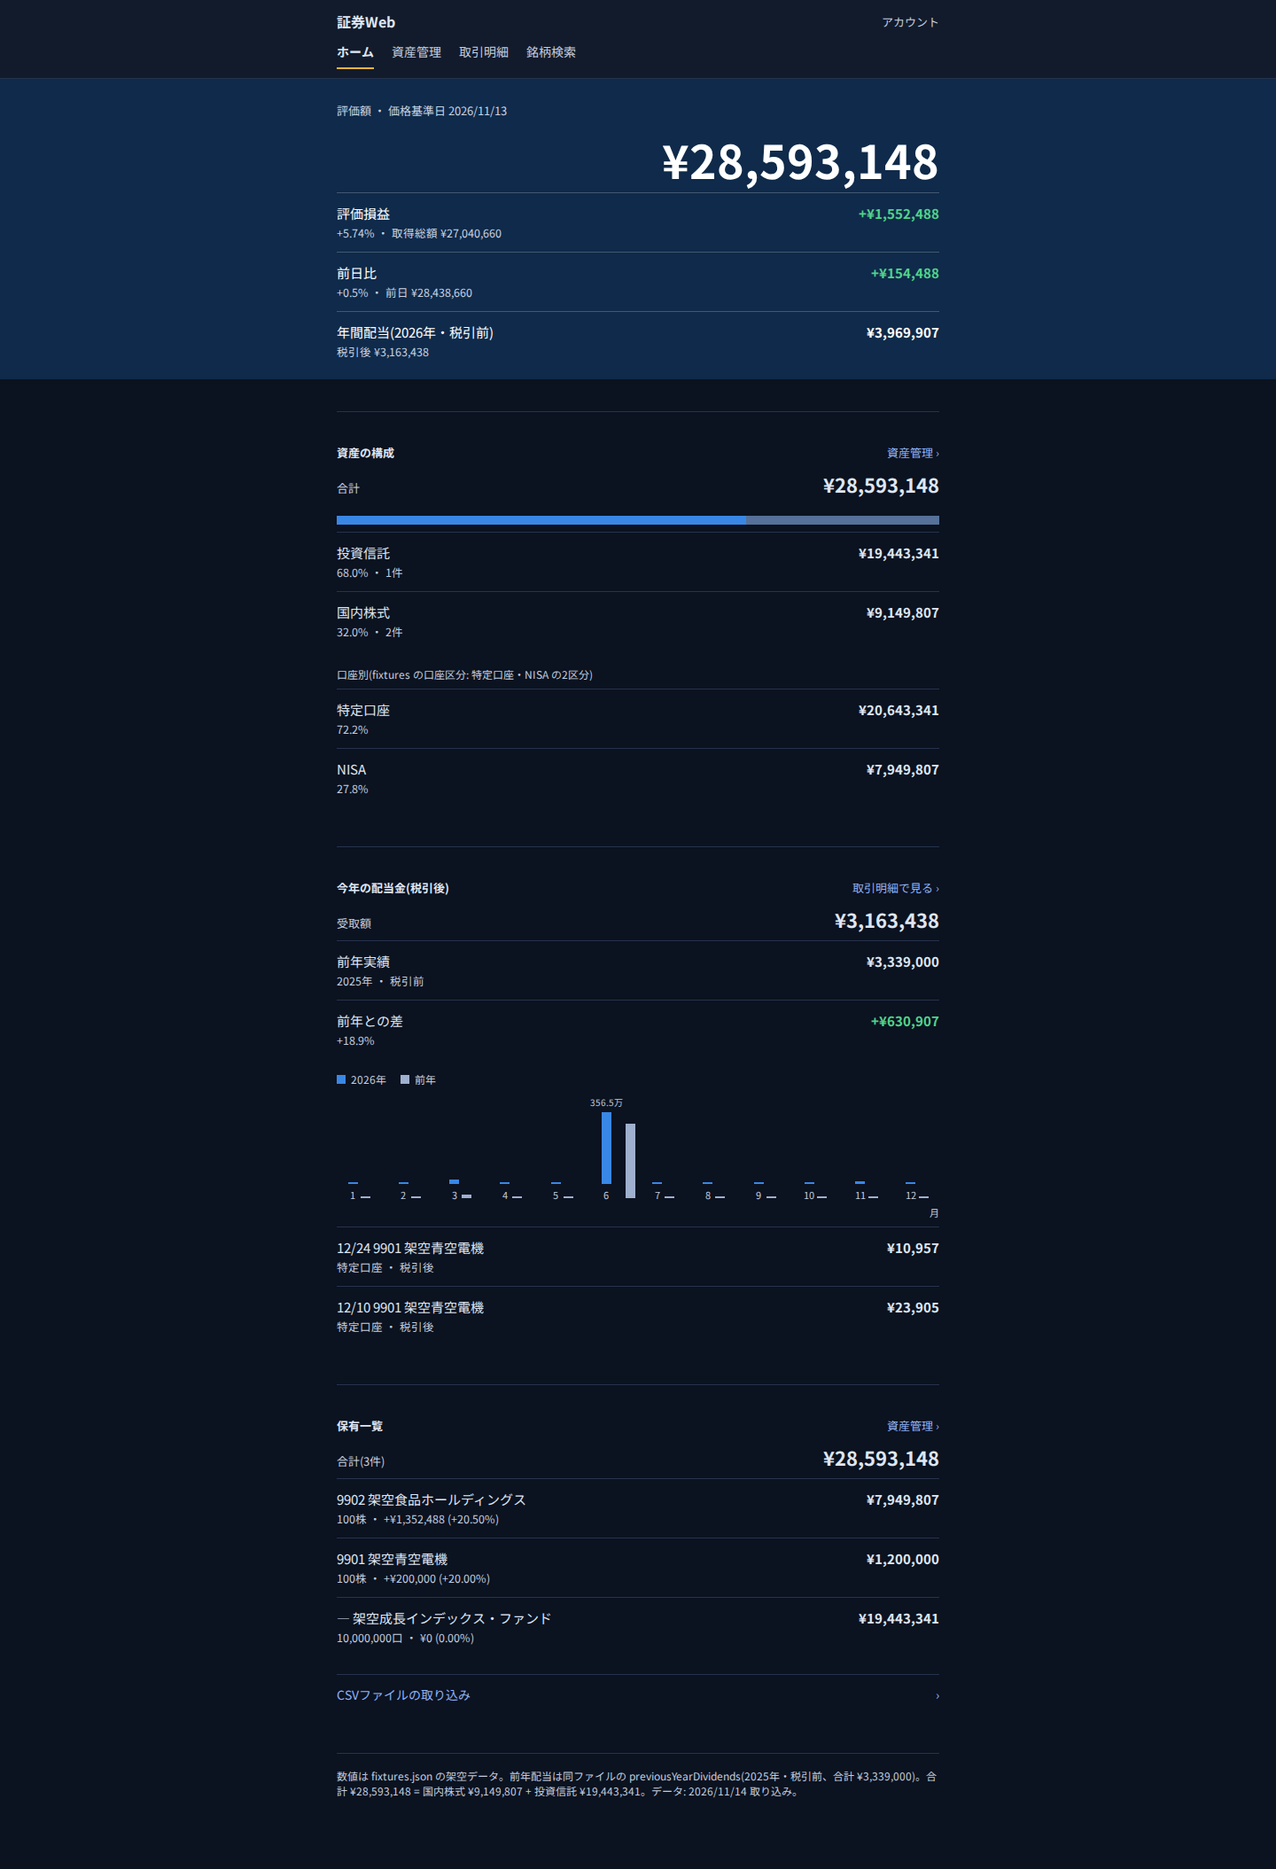
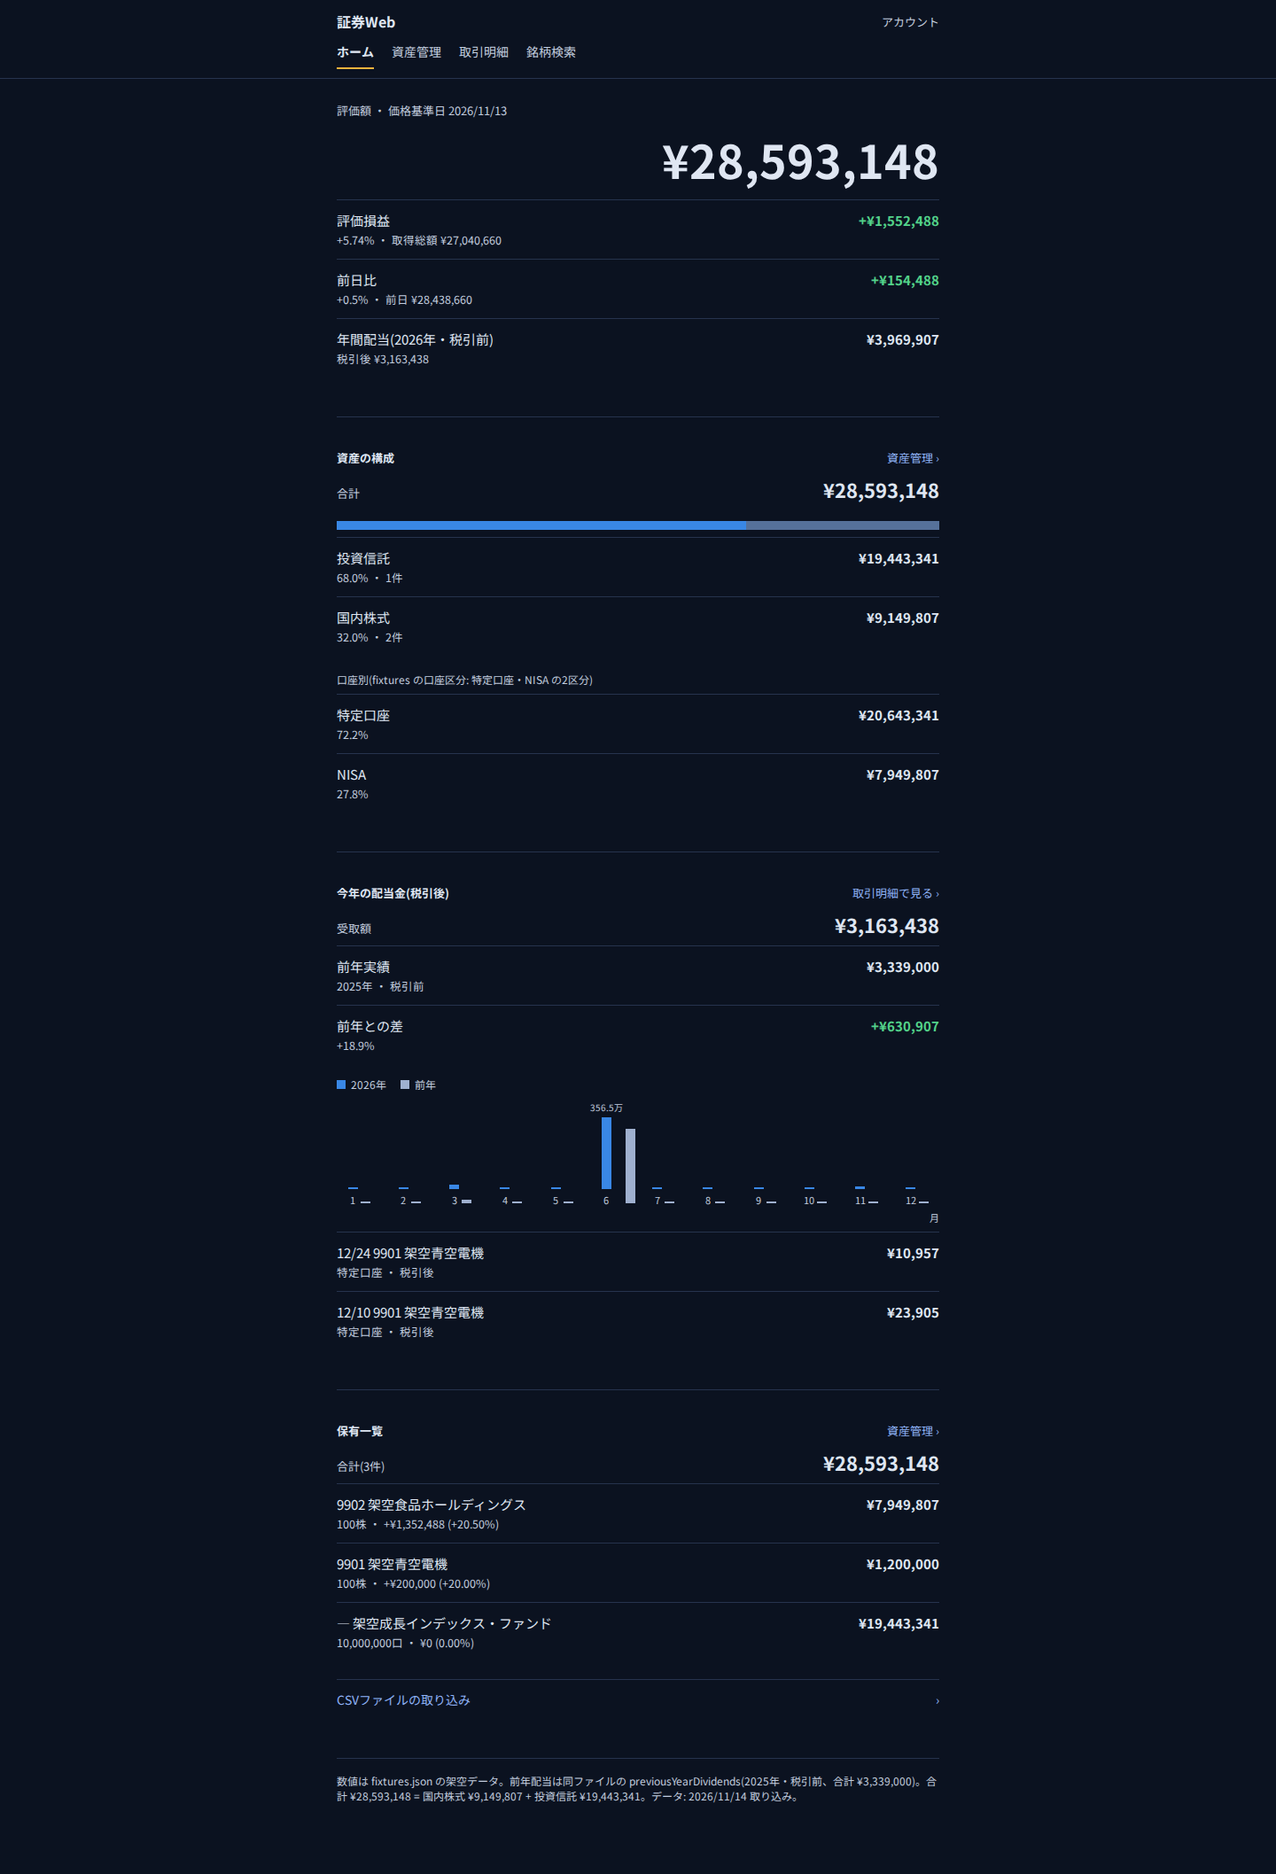
design: 紺帯をやめ案5を最新1案に整理
Refs #1890

diff --git a/docs/design/work/phase8-visual/idea5-current-color.html b/docs/design/work/phase8-visual/idea5-current-color.html
@@ -1,8 +1,8 @@
 <!doctype html>
 <!-- 現行ホーム(before/current-home-*.png)からの変更3点:
-  1. 紺帯・青アクセント・利益緑など現行の色のまま、縦1列(最大720px)で読む形にした
+  1. 紺帯をやめ、地の上に評価額と評価損益の大きな数字を置いた(紺は見出しと主役数字の文字色に使う)
   2. 月別配当は現行と同じ内容(受取額・前年比較・2本並び棒)にし、明細は直近の入金2行だけにした
-  3. 操作(上ナビ・CSV管理・アカウント・下ナビ)は残し、明細はすべて「左=名前・右=金額」の同じ行に統一した -->
+  3. 操作は残し、CSVは保有一覧末尾の1行に一本化。明細はすべて「左=名前・右=金額」の同じ行に統一した -->
 <html lang="ja" data-theme="light">
 <head>
 <meta charset="utf-8">
@@ -14,35 +14,39 @@
 <style>
 /* 色は frontend/style/input.css の現行トークンのみ。新色なし */
 :root{
-  --page:#f3f5f8; --surface:#ffffff; --ink:#111827; --mut:#5f6b7a; --line:#e5e7eb;
-  --band:#0f2a4a; --band-ink:#ffffff; --band-mut:#c9d3e1; --gold:#f2b33d;
+  --page:#f3f5f8; --ink:#111827; --mut:#5f6b7a; --line:#e5e7eb;
+  --gold:#f2b33d;
   --accent:#1d4ed8; --up:#0b7a4b; --down:#c0362c;
   --bar-cur:#0f2a4a; --bar-prev:#64748b;
   --comp-a:#1d4ed8; --comp-b:#0f2a4a;
+  --headline:#0f2a4a;
   --btn-border:#d1d5db;
 }
 html[data-theme="dark"]{
-  --page:#0b1220; --surface:#121b2c; --ink:#dfe6f2; --mut:#c2cddf; --line:#26334d;
-  --band:#0f2a4a; --band-ink:#ffffff; --band-mut:#c9d3e1; --gold:#f2b33d;
+  --page:#0b1220; --ink:#dfe6f2; --mut:#c2cddf; --line:#26334d;
+  --gold:#f2b33d;
   --accent:#8fb3f7; --up:#53d28a; --down:#f0857a;
   --bar-cur:#3987e5; --bar-prev:#9fb0cf;
   --comp-a:#3987e5; --comp-b:#56719a;
+  --headline:#dfe6f2;
   --btn-border:#3d4d70;
 }
 @media (prefers-color-scheme: dark){
-  html:not([data-theme]){ --page:#0b1220; --surface:#121b2c; --ink:#dfe6f2; --mut:#c2cddf; --line:#26334d;
-    --band:#0f2a4a; --band-ink:#ffffff; --band-mut:#c9d3e1; --gold:#f2b33d;
+  html:not([data-theme]){ --page:#0b1220; --ink:#dfe6f2; --mut:#c2cddf; --line:#26334d;
+    --gold:#f2b33d;
     --accent:#8fb3f7; --up:#53d28a; --down:#f0857a;
     --bar-cur:#3987e5; --bar-prev:#9fb0cf;
     --comp-a:#3987e5; --comp-b:#56719a;
+  --headline:#dfe6f2;
     --btn-border:#3d4d70; }
 }
+/* 面の塗りはグラフの棒と割合の横棒だけ。ヘッダー・ナビは地のまま線で区切る */
 *{box-sizing:border-box}
 body{margin:0; background:var(--page); color:var(--ink);
   font-family:"Noto Sans JP","Hiragino Kaku Gothic ProN",Meiryo,sans-serif; font-weight:400}
 .wrap{max-width:720px; margin:0 auto; padding:0 20px 80px}
 /* 現行の上部: ロゴ・ナビ・CSV管理・アカウント */
-.top{background:var(--surface); border-bottom:1px solid var(--line)}
+.top{background:transparent; border-bottom:1px solid var(--line)}
 .top .inner{max-width:720px; margin:0 auto; padding:0 20px}
 .top .row1{display:flex; align-items:center; justify-content:space-between; gap:12px; padding:12px 0}
 .top .brand{font-weight:700; white-space:nowrap}
@@ -51,21 +55,14 @@ body{margin:0; background:var(--page); color:var(--ink);
 .top nav{display:flex; gap:20px; font-size:14px; padding-bottom:10px}
 .top nav span{white-space:nowrap; color:var(--mut)}
 .top nav .here{color:var(--ink); font-weight:700; border-bottom:2px solid var(--gold); padding-bottom:8px}
-/* 現行の紺の集計帯(中身は1列の行) */
-.band{background:var(--band); color:var(--band-ink)}
-.band .inner{max-width:720px; margin:0 auto; padding:26px 20px 10px}
-.band .kicker{font-size:13px; color:var(--band-mut); margin:0 0 8px; white-space:nowrap}
-.band .total{font-size:clamp(36px,10vw,52px); font-weight:700; text-align:right; margin:0; white-space:nowrap;
-  font-feature-settings:"tnum" 1; font-variant-numeric:tabular-nums}
-.band .row{display:flex; justify-content:space-between; align-items:flex-start; gap:16px; padding:12px 0; border-top:1px solid rgba(255,255,255,.22)}
-.band .row .left{min-width:0; flex:1 1 auto}
-.band .row .name{font-size:15px; white-space:nowrap; overflow:hidden; text-overflow:ellipsis}
-.band .row .sub{display:block; font-size:12.5px; color:var(--band-mut); margin-top:2px; white-space:nowrap; overflow:hidden; text-overflow:ellipsis}
-.band .row .amt{flex:none; font-size:15px; font-weight:700; text-align:right; white-space:nowrap;
+/* 紺帯はやめ、地の上に大きな数字。紺は見出しと主役数字の文字色に使う */
+.hero{padding:26px 0 8px}
+.hero .kicker{font-size:13px; color:var(--mut); margin:0 0 8px; white-space:nowrap}
+.hero .total{font-size:clamp(36px,10vw,52px); font-weight:700; color:var(--headline); text-align:right; margin:0; white-space:nowrap;
   font-feature-settings:"tnum" 1; font-variant-numeric:tabular-nums}
 /* idea4 の型: 見出し→要約→明細 */
 section{padding:36px 0 8px; border-top:1px solid var(--line); margin-top:36px}
-section h2{font-size:13px; font-weight:700; margin:0; white-space:nowrap}
+section h2{font-size:13px; font-weight:700; margin:0; white-space:nowrap; color:var(--headline)}
 .hrow{display:flex; justify-content:space-between; align-items:baseline; gap:16px}
 .hrow .more{font-size:13px; color:var(--accent); white-space:nowrap}
 .cap{font-size:12px; color:var(--mut); margin:18px 0 0}
@@ -102,7 +99,7 @@ section h2{font-size:13px; font-weight:700; margin:0; white-space:nowrap}
 .bottomnav{display:none}
 @media(max-width:720px){
   .top nav{display:none}
-  .bottomnav{display:flex; background:var(--surface); border-top:1px solid var(--line)}
+  .bottomnav{display:flex; background:transparent; border-top:1px solid var(--line)}
   .bottomnav span{flex:1; display:flex; flex-direction:column; align-items:center; gap:2px; text-align:center; font-size:11px; padding:10px 0 16px; color:var(--mut); white-space:nowrap}
   .bottomnav .here{color:var(--accent); font-weight:700}
   .wrap{padding-bottom:40px}
@@ -115,15 +112,16 @@ section h2{font-size:13px; font-weight:700; margin:0; white-space:nowrap}
   <nav><span class="here">ホーム</span><span>資産管理</span><span>取引明細</span><span>銘柄検索</span></nav>
 </div></header>
 
-<div class="band"><div class="inner">
-  <p class="kicker">評価額 ・ 価格基準日 2026/11/13</p>
-  <p class="total">¥28,593,148</p>
-  <div class="row"><div class="left"><div class="name">評価損益</div><span class="sub">+5.74% ・ 取得総額 ¥27,040,660</span></div><span class="amt" style="color:var(--up)">+¥1,552,488</span></div>
-  <div class="row"><div class="left"><div class="name">前日比</div><span class="sub">+0.5% ・ 前日 ¥28,438,660</span></div><span class="amt" style="color:var(--up)">+¥154,488</span></div>
-  <div class="row"><div class="left"><div class="name">年間配当(2026年・税引前)</div><span class="sub">税引後 ¥3,163,438</span></div><span class="amt">¥3,969,907</span></div>
-</div></div>
-
 <div class="wrap">
+  <div class="hero">
+    <p class="kicker">評価額 ・ 価格基準日 2026/11/13</p>
+    <p class="total">¥28,593,148</p>
+    <div class="rows">
+      <div class="row"><div class="left"><div class="name">評価損益</div><span class="sub">+5.74% ・ 取得総額 ¥27,040,660</span></div><span class="amt up">+¥1,552,488</span></div>
+      <div class="row"><div class="left"><div class="name">前日比</div><span class="sub">+0.5% ・ 前日 ¥28,438,660</span></div><span class="amt up">+¥154,488</span></div>
+      <div class="row"><div class="left"><div class="name">年間配当(2026年・税引前)</div><span class="sub">税引後 ¥3,163,438</span></div><span class="amt">¥3,969,907</span></div>
+    </div>
+  </div>
   <section>
     <div class="hrow"><h2>資産の構成</h2><span class="more">資産管理 ›</span></div>
     <div class="sum"><span class="label">合計</span><span class="amt">¥28,593,148</span></div>

diff --git a/docs/design/work/phase8-visual/README.md b/docs/design/work/phase8-visual/README.md
@@ -1,35 +1,10 @@
 # Phase 8 ホーム見た目(visual)
 
-Phase 5 の見本に対し「全体の雰囲気・見た目が悪い」との判断を受け、Phase 3 の骨格(集計帯→資産の構成→月別配当→保有一覧)は保ったまま、見た目だけを作り直したホームの方向案。数値はすべて `../phase5-codex/data/fixtures.json` の架空データを直書き(評価額 ¥28,593,148 = 国内株式 ¥9,149,807 + 投資信託 ¥19,443,341、前日比 +¥154,488、年間配当 税引前 ¥3,969,907 / 税引後 ¥3,163,438、保有3件、最近の配当 2026/12/24 ¥10,957・2026/12/10 ¥23,905)。
+Phase 5 の見本に対し「全体の雰囲気・見た目が悪い」との判断を受け、Phase 3 の骨格(集計帯→資産の構成→月別配当→保有一覧)は保ったまま、見た目だけを作り直したホームの方向案。数値はすべて `../phase5-codex/data/fixtures.json` の架空データを直書き(評価額 ¥28,593,148 = 国内株式 ¥9,149,807 + 投資信託 ¥19,443,341、前日比 +¥154,488、年間配当 税引前 ¥3,969,907 / 税引後 ¥3,163,438、保有3件、最近の配当 2026/12/24 ¥10,957・2026/12/10 ¥23,905)。不採用案(案1〜4)は削除済み。現行案は `idea5-current-color.html` の1案のみ。
 
-## 現行の画面から変わった点(案4)
+共通: Noto Sans JP(Google Fonts、落ちたらシステムフォント)、数字は tabular-nums。紫〜青グラデ・クリーム+セリフ・全面角丸+影・絵文字見出しは使わない。html は1ファイルで PC/スマホ両対応、`?theme=light|dark` と `prefers-color-scheme` でライト/ダーク切替。撮影は `tools/shoot.py`(Playwright、PC 1440px・スマホ 390px × ライト・ダークの full-page)。
 
-現行(`before/current-home-*.png`)との比べどころ:
-
-1. 紺の3分割集計帯・予想vs実績グラフ・口座別バーをなくし、縦1列(最大720px)で上から下に読む形にした
-2. 明細をすべて「左=名前(長いものは…で省略)・右=金額」の同じ行に統一し、金額の右端をページ全体で一本線にそろえた
-3. 色を黒・灰+利益緑・損失赤・グラフ1色(緑の濃淡)だけにし、見出しや帯の色をやめた
-
-## 守る規則と守った場所(案4 `idea4-simple.html`)
-
-1. 縦1列で読む: `.wrap{max-width:720px}` で中央1列。左右併記は `.row` の「名前と金額」の中だけ
-2. 同じ型のセクション: `section` = `h2`(見出し)→`.sum`(1行の要約)→`.rows`(明細)。カード・枠・影なし、区切りは `section{border-top}` の細線1本+余白
-3. 同じ「行」の型: `.row` = 左 `.name`(1行・`ellipsis`)+`.sub`(2段目・補足)、右 `.amt`。構成・月別(12か月)・保有の全明細で同じ型
-4. 数字: `.amt` と `.total` は `tabular-nums`・右そろえ・書式 `¥1,234,567`。大きさ3段(hero 52px / `.sum` 22px / `.row` 15px)で同段は同サイズ・同太字
-5. 色: 文字は `--ink` と `--muted`(灰)の2つだけ。色は `.up`(緑)/`.down`(赤)とグラフの `--g-deep`/`--g-pale`(同色相の濃淡)だけ。見出し・帯に色なし
-6. グラフ: 構成は `.bar100`(68.0%/32.0%の1本) 、月別は `.bars`(数字ラベル+下に「月」1回、値ラベルは6月の356.5万だけ)
-7. 書体: Noto Sans JP の1種類、太さは `400` と `700` のみ(Google Fonts 指定もその2つ)
-8. スマホ390px: 金額・見出しは `nowrap`/`ellipsis`+`clamp` で改行なし。`shots/idea4-simple-mobile-{light,dark}.png` で全金額1行を目視済み(機械検査でも折返し0・はみ出し0)
-9. 数字: fixtures.json の値(合計・月別税引前/税引後・保有3行・前日比)を直書き
-
-共通: Noto Sans JP(Google Fonts、落ちたらシステムフォント)、数字は tabular-nums。紫〜青グラデ・クリーム+セリフ・全面角丸+影・絵文字見出しは使わない。各 html は1ファイルで PC/スマホ両対応、`?theme=light|dark` と `prefers-color-scheme` でライト/ダーク切替。撮影は `tools/shoot.py`(Playwright、PC 1440px・スマホ 390px × ライト・ダークの full-page)。
-
-現行のホーム(`before/current-home-*.png` = phase1-opencode の現行アプリ撮影。紺の3分割集計帯、予想vs実績・達成率つき配当グラフ、口座別バー)との比べどころは各案の節に3点ずつ書いた。
-
-## 案4 シンプル(`idea4-simple.html`)
-
-3案への指摘(すらすら読めない・数字と色がガタガタ)を受け、1案に絞った作り直し。上記8規則のとおり: 縦1列・全セクション同型・全明細同行型・金額右端一本線・黒灰+緑赤+緑濃淡のみ・Noto Sans JP 400/700。
-現行からの変更は冒頭「現行の画面から変わった点」3点のとおり。
+現行のホーム(`before/current-home-*.png` = phase1-opencode の現行アプリ撮影)との比べどころは下の表と html 冒頭のコメントに書いた。
 
 ## 現行から採用したもの/やめたもの(案5)
 
@@ -37,8 +12,8 @@ Phase 5 の見本に対し「全体の雰囲気・見た目が悪い」との判
 
 | 現行の要素 | 採用/不採用 | 案5での扱い |
 |---|---|---|
-| 紺帯に評価額と評価損益をまとめ、開いてすぐ大事な数字が見える | 採用 | `.band`(紺 `#0f2a4a`)に評価額の大数字+評価損益/前日比/年間配当の行 |
-| 価格基準日を評価額の近くに出す | 採用 | 帯のキッカー「評価額 ・ 価格基準日 2026/11/13」 |
+| 紺の帯(面塗り) | 不採用(訂正) | 帯はやめる。評価額・評価損益は地の上に大きな数字で置く(開いてすぐ見える点は保つ)。紺 `#0f2a4a` は見出し(`h2`)と主役数字(`.hero .total`)の文字色に使う。ダークはコントラスト確保のため文字色のみ ink(`#dfe6f2`) |
+| 価格基準日を評価額の近くに出す | 採用 | ヒーローのキッカー「評価額 ・ 価格基準日 2026/11/13」 |
 | 今年と前年を並べる棒グラフ | 採用 | 今年(`chart-1`)と前年(`chart-previous`)の2本並び。月ラベルは数字のみ(割れなし)、値ラベルは6月だけ |
 | セクション見出し右の詳しい画面への入口 | 採用 | `.hrow .more`(青 `#1d4ed8`): 構成→資産管理›、配当→取引明細で見る›、保有→資産管理› |
 | 口座別の内訳(特定・旧NISA・NISAつみたて・NISA成長) | 採用(区分は fixtures に合わせる) | 構成セクションに口座別2行(特定口座 ¥20,643,341・72.2% / NISA ¥7,949,807・27.8%)。fixtures の口座区分は特定口座/NISAの2区分のため、4区分表示は口座データ拡充後に拡張 |
@@ -48,18 +23,16 @@ Phase 5 の見本に対し「全体の雰囲気・見た目が悪い」との判
 | 「1611%」の達成率と細長い進捗バー | 不採用 | 受取額 ¥3,163,438・前年実績 ¥3,339,000・差 +¥630,907(+18.9%)を素直に3行で並べ、比率バーなし |
 | 口座別の色札凡例の折返し | 不採用 | 口座別も行の型(名前 左/金額・率 右)にそろえ、色札なし |
 | 円グラフ | 不採用 | 現行の青/紺のまま1本の横棒(68.0%/32.0%)に置換 |
-| 余白不均一・カード詰まり | 不採用 | idea4 の均一セクション間隔・カードなしを維持 |
+| 余白不均一・カード詰まり | 不採用 | 均一セクション間隔・カードなしを維持 |
 
 ## 案5 現行色(`idea5-current-color.html`)
 
-案4の型(縦1列・同型セクション・同行型明細・右端一本線・3段文字・改行なし)は保ち、色と配当の出し方と操作だけ現行に戻した。
-- 色: `frontend/style/input.css` の現行トークンのみ(紺帯 `#0f2a4a`、青アクセント `#1d4ed8`/ダーク `#8fb3f7`、利益緑 `#0b7a4b`/ダーク `#53d28a`、損失 `#c0362c`/ダーク `#f0857a`、金 `#f2b33d`、地 `#f3f5f8`/ダーク `#0b1220`、系列色 `chart-1`/`chart-previous`)。新色なし
+縦1列(最大720px)・同型セクション(見出し→要約→明細)・同行型明細(左=名前・右=金額、補足は2段目)・金額の右端一本線・3段文字・改行なし。色は `frontend/style/input.css` の現行トークンのみ(紺 `#0f2a4a`は見出し・主役数字の文字色、青アクセント `#1d4ed8`/ダーク `#8fb3f7`はリンク・入口、利益緑/損失、金は現行どおり)。面の塗りは棒グラフと割合の横棒だけ。新色なし。
 - 月別配当: 現行と同じ内容(受取額・前年比較・今年/前年の2本並び棒)。明細は直近の入金2行だけ。前年値(2025年・税引前、合計 ¥3,339,000)は `../phase5-codex/data/fixtures.json` に `previousYearDividends` として追加し、`node data/build.mjs` の検査(379 asserts)を通過・生成物に差分なしを確認
-- 操作: 上ナビ4項目・CSV管理・アカウント・下ナビ4項目を残置(下ナビはスマホのみ表示、撮影写り込み回避のためフロー配置)
-- 現行からの変更: (1)3分割帯の中身を1列の行にし金額の右端を一本線に (2)12か月表をやめ受取額+前年比較+直近2行に (3)口座別バーをやめ構成は青/紺の1本棒に。各 html 冒頭のコメントにも同じ3点を記載
+- 操作: 上ナビ4項目・アカウント・下ナビ4項目を残置(下ナビはスマホのみ表示、撮影写り込み回避のためフロー配置)。CSV取り込みは保有一覧末尾の1行に一本化
+- 現行からの変更: (1)紺帯をやめ地の上に評価額・損益の大きな数字を置き金額の右端を一本線に (2)12か月表をやめ受取額+前年比較+直近2行に (3)口座別バーをやめ構成は青/紺の1本棒に。各 html 冒頭のコメントにも同じ3点を記載
 
-- `idea5-current-color.html` — 現行色の1案(PC/スマホ両対応1ファイル)
-- `idea4-simple.html` — シンプル案(PC/スマホ両対応1ファイル)
-- `shots/`: 現行2案(案4・案5)各4枚の計8枚。全枚、文字の切れ・重なり・はみ出しなしを目視済み(モバイルは全金額1行を1枚ずつ確認)
+- `idea5-current-color.html` — 現行案(PC/スマホ両対応1ファイル)
+- `shots/`: 案5の4枚(PC/モバイル × ライト/ダーク)。全枚、文字の切れ・重なり・はみ出しなしを目視済み(モバイルは全金額1行を1枚ずつ確認)
 - `before/`: 現行ホームの撮影4枚(phase1-opencode の現行アプリ撮影を複写。比較用、編集なし)
 - `tools/shoot.py`: 撮影スクリプト
